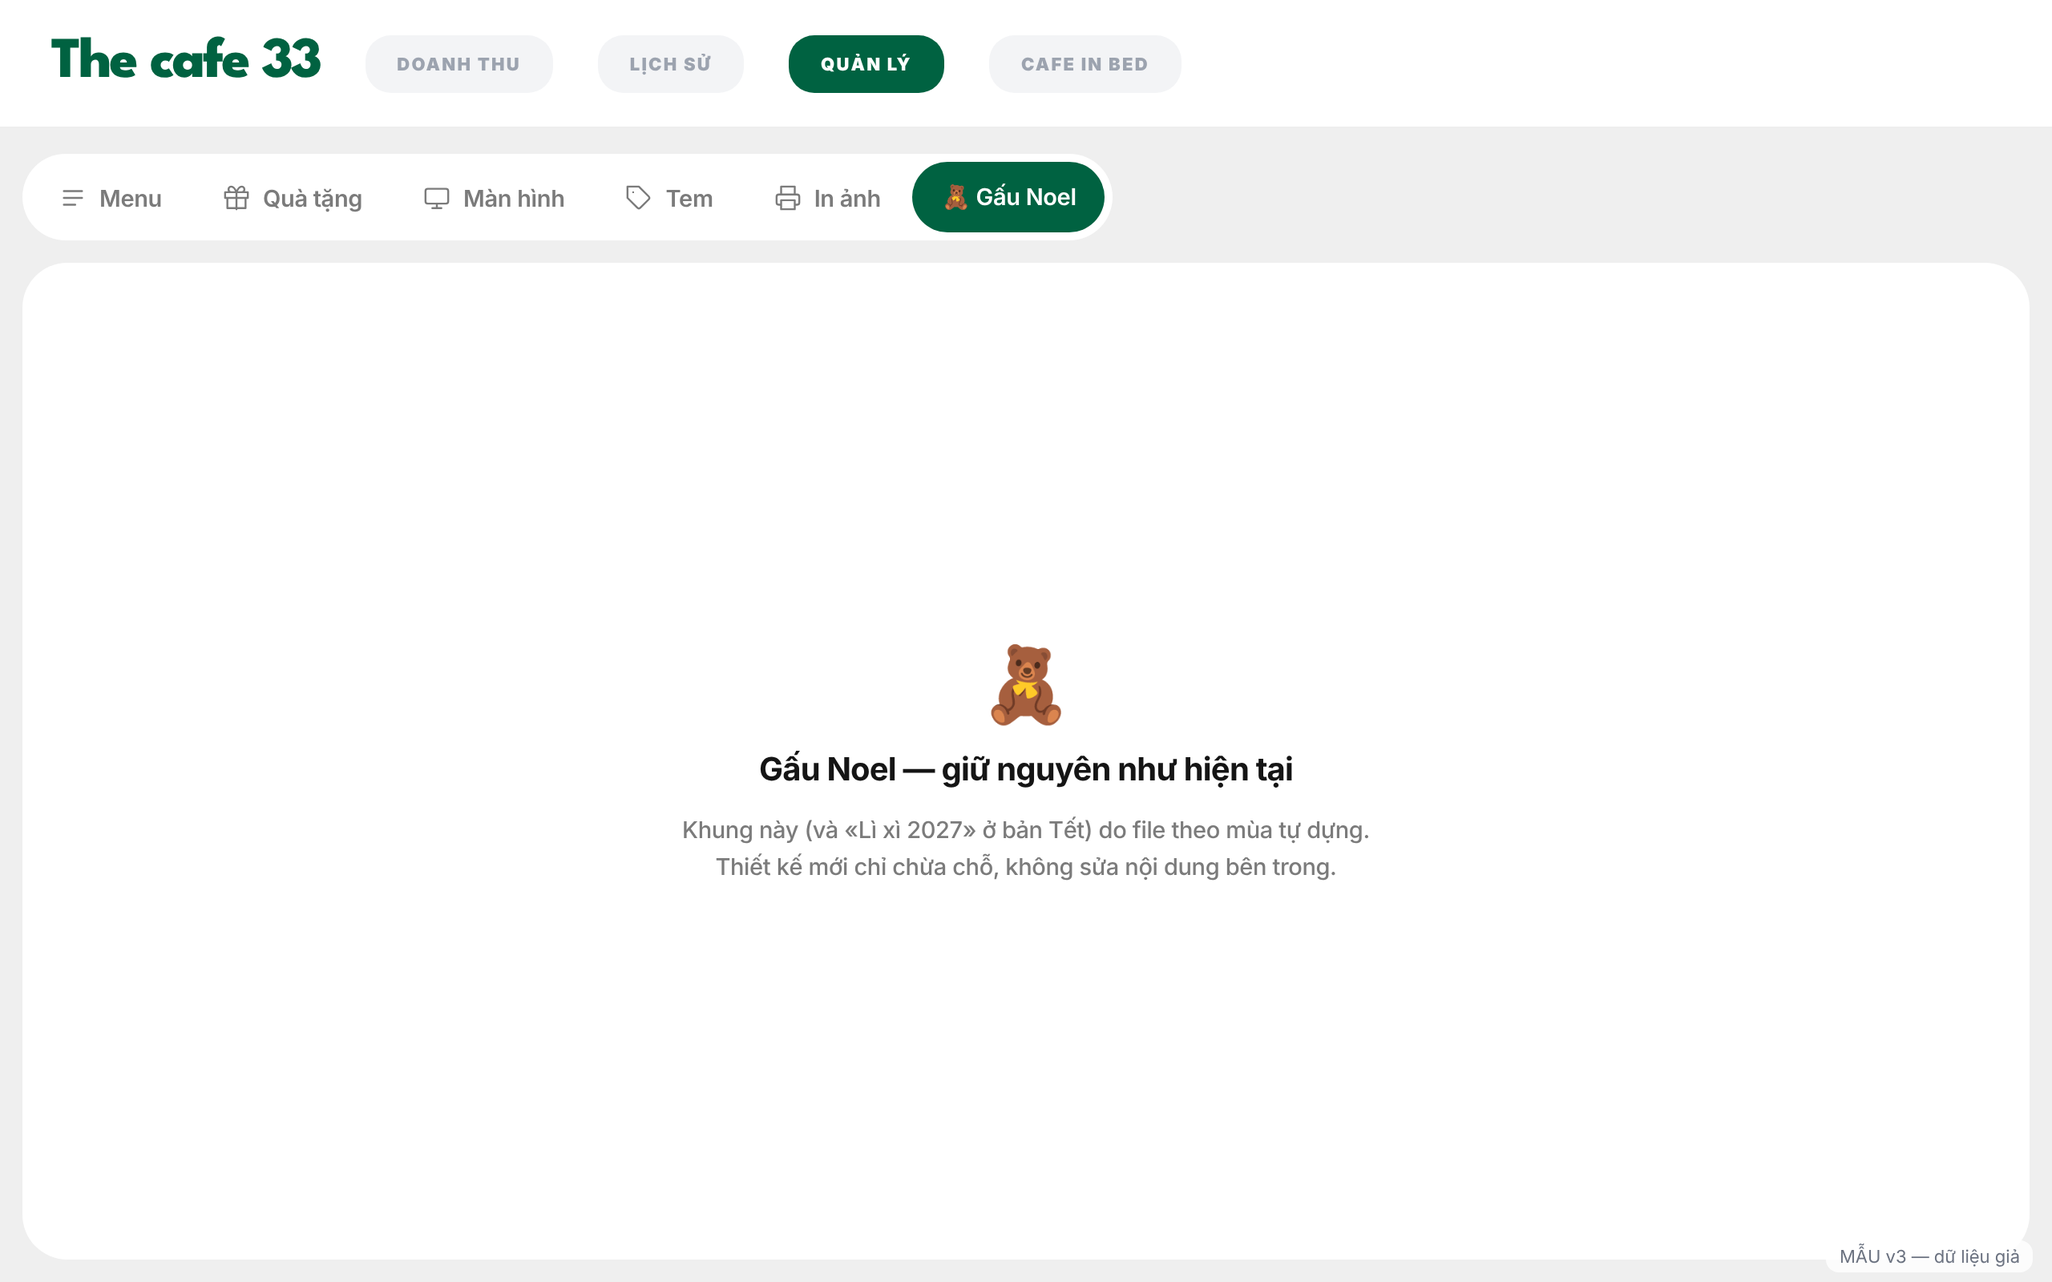
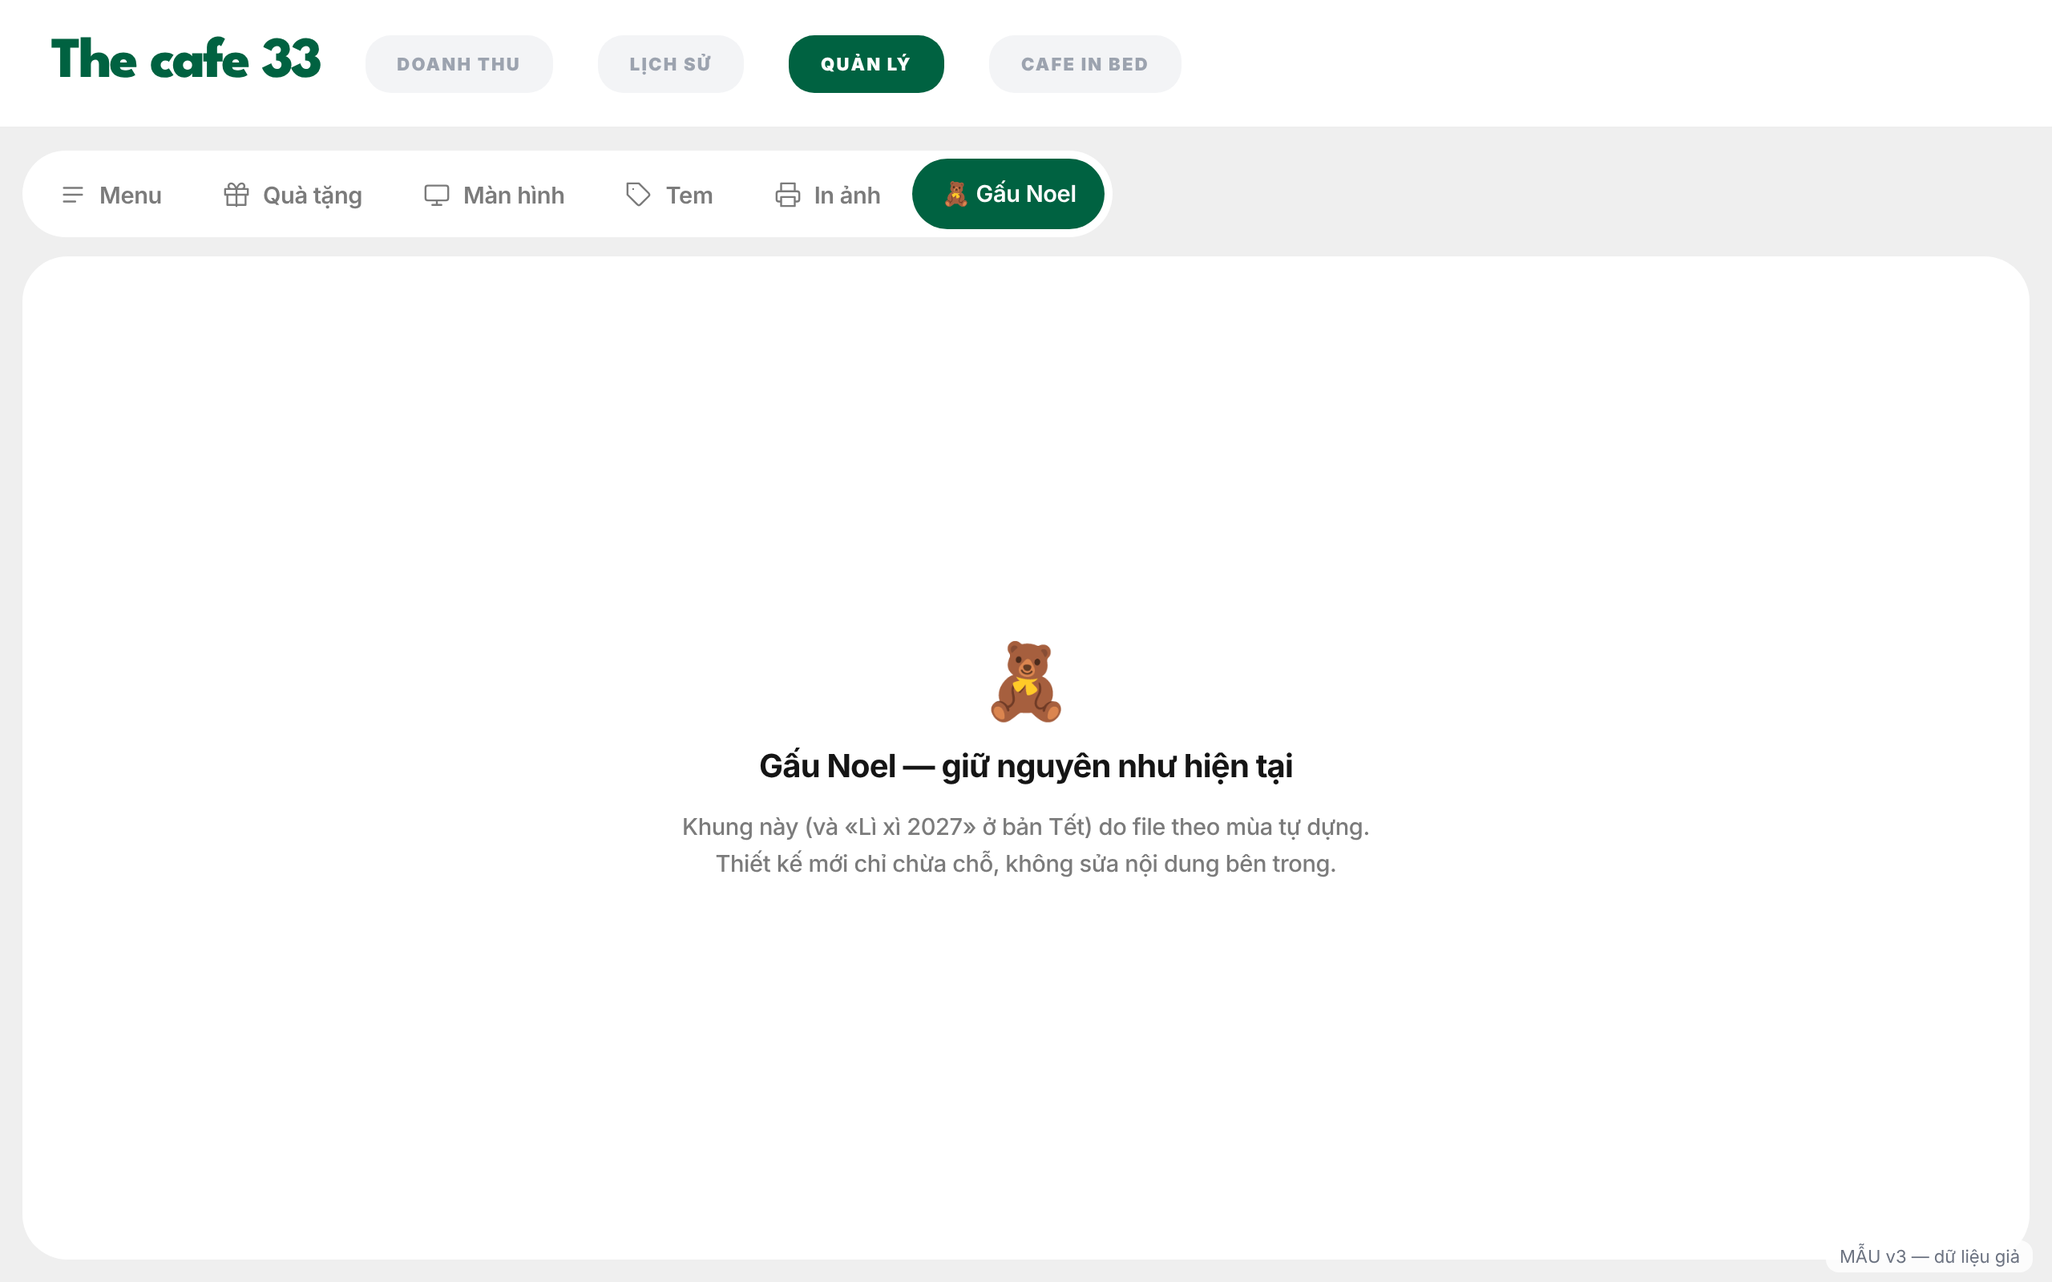
Mẫu v3: gộp thanh thao tác lên hàng thanh mục (hết khoảng trống), xếp ô Menu theo thứ tự nhập
Claude-Session: https://claude.ai/code/session_019Dii16WLktHzqfjfrbBhzh

diff --git a/docs/mau/mau_quanly_tc33_bento_v3.html b/docs/mau/mau_quanly_tc33_bento_v3.html
@@ -24,7 +24,7 @@ body{font-family:'Inter',sans-serif;background:#f3f4f6;display:flex;flex-directi
 #view-discount button:active{transform:scale(.97)}
 #view-discount :is(button,[role=button]):focus-visible{outline:2px solid var(--g);outline-offset:2px}
 
-.mgr-top{display:flex;align-items:center;gap:18px;flex-shrink:0;padding:2px 0}
+.mgr-top{display:flex;align-items:center;gap:12px;flex-shrink:0}
 .mgr-seg{display:flex;gap:2px;padding:5px;background:#fff;border-radius:999px;overflow-x:auto;scrollbar-width:none}
 .mgr-seg button{display:flex;align-items:center;gap:8px;height:44px;padding:0 18px;border:0;border-radius:999px;background:transparent;color:var(--ink2);font-size:14.5px;font-weight:600;white-space:nowrap;flex-shrink:0}
 .mgr-seg button svg{width:17px;height:17px;flex-shrink:0;stroke-width:1.7}
@@ -108,10 +108,13 @@ body{font-family:'Inter',sans-serif;background:#f3f4f6;display:flex;flex-directi
 .mgr-btn[disabled]{background:var(--field);border-color:var(--field);color:var(--ink3)}
 .mgr-tile.dark .mgr-btn.pri{background:#fff;border-color:#fff;color:#141414}
 
-.mgr-edhead{display:flex;align-items:center;gap:8px;flex-shrink:0;background:#fff;border-radius:999px;padding:10px 10px 10px 28px;min-height:68px}
-.mgr-edhead>div{flex:1;min-width:0}
-.mgr-edhead small{display:block;font-size:12px;color:var(--ink3)}
-.mgr-edhead b{display:block;font-size:18px;font-weight:700;letter-spacing:-.025em;overflow:hidden;text-overflow:ellipsis;white-space:nowrap}
+.mgr-acts{flex:1;min-width:0;display:flex;justify-content:flex-end}
+.mgr-act{display:flex;align-items:center;gap:8px;min-width:0;flex:1;justify-content:flex-end}
+.mgr-act:not(.on){display:none}
+.mgr-act>div{min-width:0;text-align:right;padding:0 8px;flex:0 1 auto}
+.mgr-act small{display:block;font-size:12px;color:var(--ink3);white-space:nowrap}
+.mgr-act b{display:block;font-size:16px;font-weight:700;letter-spacing:-.02em;overflow:hidden;text-overflow:ellipsis;white-space:nowrap}
+.mgr-act .mgr-btn{height:54px}
 
 .mgr-pick{display:flex;flex-wrap:wrap;gap:6px}
 .mgr-pick button{height:44px;padding:0 17px;border-radius:999px;border:1px solid var(--line);background:#fff;color:var(--ink);font-size:14px;font-weight:500}
@@ -129,8 +132,8 @@ body{font-family:'Inter',sans-serif;background:#f3f4f6;display:flex;flex-directi
 .mgr-tile.dark .mgr-stage{background:#1f1f1f;color:#8a8a8a}
 .mgr-drop{flex:1;min-height:84px;border:1.5px dashed #d2d2d2;border-radius:20px;display:grid;place-items:center;text-align:center;color:var(--ink2);font-size:14px}
 .mgr-log{flex:1;min-height:0;background:#1f1f1f;color:#9fdcbf;border-radius:20px;padding:16px;font:12.5px/1.8 ui-monospace,monospace;overflow-y:auto}
-.mgr-sw{display:flex;flex-wrap:wrap;gap:10px}
-.mgr-sw i{width:40px;height:40px;border-radius:50%;display:block;cursor:pointer}
+.mgr-sw{display:flex;flex-wrap:wrap;gap:12px;margin:auto 0}
+.mgr-sw i{width:52px;height:52px;border-radius:50%;display:block;cursor:pointer}
 .mgr-sw i.on{box-shadow:0 0 0 3px #fff,0 0 0 4.5px var(--ink)}
 .mgr-sw i.custom{background:#fff;border:1px dashed #bdbdbd;display:grid;place-items:center;color:var(--ink);font-style:normal;font-size:18px}
 .mgr-tagbox{display:flex;flex-wrap:wrap;gap:6px}
@@ -140,7 +143,7 @@ body{font-family:'Inter',sans-serif;background:#f3f4f6;display:flex;flex-directi
 .mgr-card{align-self:center;margin:auto;width:min(100%,220px);aspect-ratio:1.25;border-radius:24px;padding:18px;display:flex;flex-direction:column;justify-content:space-between;color:#fff}
 .mgr-card b{font-size:19px;font-weight:700;line-height:1.2;letter-spacing:-.025em}
 .mgr-card span{font-size:13.5px;opacity:.85}
-#df-img-preview{background:var(--field)!important;border-radius:50%!important}
+#df-img-preview{background:var(--field)}
 
 #mgr-c-menueditor .mgr-bento{grid-template-columns:repeat(6,minmax(0,1fr));grid-template-rows:auto auto minmax(0,1fr)}
 #mgr-c-gift .mgr-bento{grid-template-columns:minmax(0,1fr) minmax(0,1fr) minmax(0,.95fr);grid-template-rows:auto minmax(0,1fr)}
@@ -154,7 +157,6 @@ body{font-family:'Inter',sans-serif;background:#f3f4f6;display:flex;flex-directi
   .mgr-tile{padding:16px;gap:11px}
   .mgr-input,#view-discount select{height:50px}
   .mgr-input.hero,.mgr-input.num{height:56px}
-  .mgr-edhead{min-height:60px;padding:6px 6px 6px 26px}
   #mgr-c-gift .mgr-hint{display:none}
 }
 @media (max-width:768px){
@@ -162,7 +164,6 @@ body{font-family:'Inter',sans-serif;background:#f3f4f6;display:flex;flex-directi
   .mgr-workspace{display:flex;flex-direction:column}
   #mgr-col-b-wrap{max-height:320px}
   .mgr-bento{display:flex!important;flex-direction:column}
-  .mgr-edhead{position:sticky;top:0;z-index:2}
 }
 .note{position:fixed;right:12px;bottom:6px;font-size:11px;color:#6b7280;background:#ffffffd0;padding:3px 8px;border-radius:8px;pointer-events:none}
 </style>
@@ -179,6 +180,24 @@ body{font-family:'Inter',sans-serif;background:#f3f4f6;display:flex;flex-directi
       <button id="mgr-tab-sticker" role="tab" onclick="switchMgrTab('sticker')"><svg viewBox="0 0 24 24" fill="none" stroke="currentColor" stroke-width="2.2" stroke-linecap="round" stroke-linejoin="round"><path d="M20.6 13.4 13.4 20.6a2 2 0 0 1-2.8 0L2 12V2h10l8.6 8.6a2 2 0 0 1 0 2.8zM7 7h.01"/></svg>Tem</button>
       <button id="mgr-tab-label" role="tab" onclick="switchMgrTab('label')"><svg viewBox="0 0 24 24" fill="none" stroke="currentColor" stroke-width="2.2" stroke-linecap="round" stroke-linejoin="round"><path d="M6 9V2h12v7M6 18H4a2 2 0 0 1-2-2v-5a2 2 0 0 1 2-2h16a2 2 0 0 1 2 2v5a2 2 0 0 1-2 2h-2M6 14h12v8H6z"/></svg>In ảnh</button>
       <button id="mgr-tab-gaunoel" class="season" role="tab" onclick="switchMgrTab('gaunoel')">🧸 Gấu Noel</button>
+    </div>
+    <div class="mgr-acts">
+      <div class="mgr-act" id="mgr-act-menueditor"><div><small>Đang sửa món</small><b id="menu-editor-form-title">Cà phê sữa đá</b></div>
+          <button class="mgr-btn ghost" onclick="menuEditorNewItem()">＋ Món mới</button>
+          <button class="mgr-btn del" id="menu-editor-delete-btn">Xoá</button>
+          <button class="mgr-btn pri" onclick="menuEditorSave()" style="min-width:150px">Lưu món</button></div>
+      <div class="mgr-act" id="mgr-act-gift"><div><small>Đang sửa quà</small><b id="discount-form-title">Giảm 5k mì cay khô</b></div>
+          <button class="mgr-btn ghost" onclick="giftVoucherAddNewBtn()">＋ Quà mới</button>
+          <button class="mgr-btn del" id="df-delete-btn">Xoá</button>
+          <button class="mgr-btn pri" onclick="discountFormSave()" style="min-width:170px">Lưu quà tặng</button></div>
+      <div class="mgr-act" id="mgr-act-screen"><div><small>Màn hình chờ</small><b id="screen-form-title">Sửa slide 1</b></div>
+          <button class="mgr-btn ghost" id="screen-add-btn" onclick="screenAddSlide()">Cập nhật vào danh sách</button>
+          <button class="mgr-btn pri" onclick="screenSaveSlides()" style="min-width:170px">Lưu thay đổi</button></div>
+      <div class="mgr-act" id="mgr-act-sticker"><div><small>Tem dán ly</small><b>Layout tem</b></div>
+          <button class="mgr-btn ghost" onclick="stickerTestPrint()">In thử tem</button>
+          <button class="mgr-btn pri" onclick="stickerSaveConfig()" style="min-width:150px">Lưu</button></div>
+      <div class="mgr-act" id="mgr-act-label"><div><small>58mm · 35×30mm</small><b>In ảnh lên tem</b></div>
+          <button class="mgr-btn pri" id="lbl-btn-print" disabled style="min-width:170px">In tem</button></div>
     </div>
   </div>
 
@@ -233,29 +252,23 @@ body{font-family:'Inter',sans-serif;background:#f3f4f6;display:flex;flex-directi
     <div id="mgr-col-c">
       <!-- MENU -->
       <div id="mgr-c-menueditor" class="mgr-pane">
-        <div class="mgr-edhead"><div><small>Đang sửa món</small><b id="menu-editor-form-title">Cà phê sữa đá</b></div>
-          <button class="mgr-btn ghost" onclick="menuEditorNewItem()">＋ Món mới</button>
-          <button class="mgr-btn del" id="menu-editor-delete-btn">Xoá</button>
-          <button class="mgr-btn pri" onclick="menuEditorSave()" style="min-width:150px">Lưu món</button></div>
+        
         <div class="mgr-bento">
-          <div class="mgr-tile c4"><h3>Tên món</h3><input class="mgr-input hero" id="me-name" value="Cà phê sữa đá" placeholder="VD: Cà phê sữa đá"></div>
-          <div class="mgr-tile mint c2 r2"><h3>Xem trước ô menu</h3><div class="mgr-card" style="background:#006241"><b>Cà phê sữa đá</b><span>M 25k · L 30k</span></div></div>
-          <div class="mgr-tile butter c2"><h3>Giá size M</h3><div class="mgr-affix"><input class="mgr-input num" id="me-price-m" type="number" inputmode="numeric" value="25000"><span>đ</span></div></div>
-          <div class="mgr-tile peach c2"><h3>Giá size L <em>bỏ trống nếu không có</em></h3><div class="mgr-affix"><input class="mgr-input num" id="me-price-l" type="number" inputmode="numeric" value="30000"><span>đ</span></div></div>
-          <div class="mgr-tile c2"><h3>Phân loại</h3><input class="mgr-input" id="me-type" value="Cà phê" placeholder="VD: Cà phê, Trà…">
-            <div class="mgr-pick"><button aria-pressed="true">Cà phê</button><button>Trà</button><button>Ăn vặt</button></div></div>
-          <div class="mgr-tile c4"><h3>Màu ô menu</h3>
-            <div class="mgr-sw" id="me-color-swatches"><i class="on" style="background:#006241"></i><i style="background:#0e7490"></i><i style="background:#1d4ed8"></i><i style="background:#6d28d9"></i><i style="background:#be185d"></i><i style="background:#b91c1c"></i><i style="background:#d97706"></i><i style="background:#65a30d"></i><i style="background:#7c4a21"></i><i style="background:#3b2a1e"></i><i style="background:#475569"></i><i style="background:#111827"></i><i class="custom" id="me-custom-color-label">＋</i></div>
-            <p class="mgr-hint">Nút ＋ nhiều màu: chọn màu tuỳ ý ngoài bảng.</p></div>
+          <div class="mgr-tile c3"><h3>Tên món</h3><input class="mgr-input hero" id="me-name" value="Cà phê sữa đá" placeholder="VD: Cà phê sữa đá">
+            <p class="mgr-hint">Tên hiện trên ô bán hàng và trên tem.</p></div>
+          <div class="mgr-tile c3"><h3>Phân loại</h3><input class="mgr-input" id="me-type" value="Cà phê" placeholder="VD: Cà phê, Trà…">
+            <div class="mgr-pick"><button aria-pressed="true">Cà phê</button><button>Trà</button><button>Đá xay / Latte</button><button>Ăn vặt</button></div></div>
+          <div class="mgr-tile c2"><h3>Giá size M</h3><div class="mgr-affix"><input class="mgr-input num" id="me-price-m" type="number" inputmode="numeric" value="25000"><span>đ</span></div></div>
+          <div class="mgr-tile c2"><h3>Giá size L <em>bỏ trống nếu không có</em></h3><div class="mgr-affix"><input class="mgr-input num" id="me-price-l" type="number" inputmode="numeric" value="30000"><span>đ</span></div></div>
+          <div class="mgr-tile c2 r2"><h3>Xem trước ô menu</h3><div class="mgr-card" style="background:#006241"><b>Cà phê sữa đá</b><span>M 25k · L 30k</span></div></div>
+          <div class="mgr-tile c4"><h3>Màu ô menu <em>＋ = màu tuỳ ý</em></h3>
+            <div class="mgr-sw" id="me-color-swatches"><i class="on" style="background:#006241"></i><i style="background:#0e7490"></i><i style="background:#1d4ed8"></i><i style="background:#6d28d9"></i><i style="background:#be185d"></i><i style="background:#b91c1c"></i><i style="background:#d97706"></i><i style="background:#65a30d"></i><i style="background:#7c4a21"></i><i style="background:#3b2a1e"></i><i style="background:#475569"></i><i style="background:#111827"></i><i class="custom" id="me-custom-color-label">＋</i></div></div>
         </div>
       </div>
 
       <!-- QUÀ TẶNG -->
       <div id="mgr-c-gift" class="mgr-pane">
-        <div class="mgr-edhead"><div><small>Đang sửa quà</small><b id="discount-form-title">Giảm 5k mì cay khô</b></div>
-          <button class="mgr-btn ghost" onclick="giftVoucherAddNewBtn()">＋ Quà mới</button>
-          <button class="mgr-btn del" id="df-delete-btn">Xoá</button>
-          <button class="mgr-btn pri" onclick="discountFormSave()" style="min-width:170px">Lưu quà tặng</button></div>
+        
         <div class="mgr-bento">
           <div class="mgr-tile"><h3>Thông tin quà</h3>
             <div class="mgr-field"><label>Tên quà <span>(hiển thị cho khách)</span></label><input class="mgr-input" id="df-label" value="Giảm 5k mì cay khô"></div>
@@ -282,22 +295,19 @@ body{font-family:'Inter',sans-serif;background:#f3f4f6;display:flex;flex-directi
               <div class="mgr-2" style="gap:8px"><input class="mgr-input sm" id="df-cond-minprice" type="number" placeholder="Giá từ"><input class="mgr-input sm" id="df-cond-maxprice" type="number" placeholder="Giá đến"></div></div>
           </div>
           <div class="mgr-tile mint c2"><h3>Hiển thị trên app khách</h3>
-            <div style="display:grid;grid-template-columns:54px minmax(0,1.1fr) minmax(0,1.3fr) 120px;gap:12px;align-items:end">
-              <div id="df-img-preview" style="width:54px;height:54px;border-radius:18px;display:grid;place-items:center;font-size:20px">🖼</div>
-              <div class="mgr-field"><label>Link ảnh</label><input class="mgr-input" id="df-img" placeholder="https://i.ibb.co/…"></div>
+            <div style="flex:1;min-height:0;display:grid;grid-template-columns:auto minmax(0,1fr) 150px;grid-template-rows:auto auto;gap:12px 14px;align-content:center">
+              <div id="df-img-preview" style="grid-row:span 2;align-self:stretch;aspect-ratio:1;min-width:120px;border-radius:22px!important;display:grid;place-items:center;font-size:30px">🖼</div>
+              <div class="mgr-field" style="grid-column:span 2"><label>Link ảnh <span>(đồng bộ app khách)</span></label><input class="mgr-input" id="df-img" placeholder="https://i.ibb.co/…"></div>
               <div class="mgr-field"><label>Mô tả ngắn</label><input class="mgr-input" id="df-desc" value="Áp dụng 1 lần khi đến quán"></div>
-              <div class="mgr-field"><label>Giới hạn lượt</label><input class="mgr-input" id="df-limit" type="number" value="0"></div>
+              <div class="mgr-field"><label>Giới hạn lượt <span>(0 = không)</span></label><input class="mgr-input" id="df-limit" type="number" value="0"></div>
             </div>
-            <p class="mgr-hint">Giới hạn lượt = 0 là không giới hạn.</p>
           </div>
         </div>
       </div>
 
       <!-- MÀN HÌNH -->
       <div id="mgr-c-screen" class="mgr-pane">
-        <div class="mgr-edhead"><div><small>Màn hình chờ</small><b id="screen-form-title">Sửa slide 1</b></div>
-          <button class="mgr-btn ghost" id="screen-add-btn" onclick="screenAddSlide()">Cập nhật vào danh sách</button>
-          <button class="mgr-btn pri" onclick="screenSaveSlides()" style="min-width:170px">Lưu thay đổi</button></div>
+        
         <div class="mgr-bento">
           <div class="mgr-tile"><h3>URL ảnh / video</h3><textarea id="slide-new-url" rows="2" placeholder="https://…">https://i.ibb.co/abc/noel-banner.jpg</textarea></div>
           <div class="mgr-tile butter"><h3>Thời gian hiển thị</h3><div class="mgr-affix end"><input class="mgr-input num" id="slide-new-duration" type="number" value="8"><span>giây</span></div></div>
@@ -307,9 +317,7 @@ body{font-family:'Inter',sans-serif;background:#f3f4f6;display:flex;flex-directi
 
       <!-- TEM -->
       <div id="mgr-c-sticker" class="mgr-pane">
-        <div class="mgr-edhead"><div><small>Tem dán ly</small><b>Layout tem</b></div>
-          <button class="mgr-btn ghost" onclick="stickerTestPrint()">In thử tem</button>
-          <button class="mgr-btn pri" onclick="stickerSaveConfig()" style="min-width:150px">Lưu</button></div>
+        
         <div class="mgr-bento">
           <div class="mgr-tile dark r3"><h3>Xem trước tem</h3><div class="mgr-stage"><canvas id="sticker-layout-preview" width="320" height="240" style="background:#fff;border-radius:14px;max-width:88%"></canvas></div><p class="mgr-hint" style="text-align:center">Tên món · Giá · Size thay đổi theo đơn hàng</p></div>
           <div class="mgr-tile c2"><h3>Logo</h3><div class="mgr-pick"><button id="stk-logo-text-btn" aria-pressed="true">Chữ “The cafe 33”</button><button id="stk-logo-img-btn">Ảnh logo</button></div></div>
@@ -322,8 +330,7 @@ luv u</textarea></div>
 
       <!-- IN ẢNH -->
       <div id="mgr-c-label" class="mgr-pane">
-        <div class="mgr-edhead"><div><small>58mm · 35×30mm</small><b>In ảnh lên tem</b></div>
-          <button class="mgr-btn pri" id="lbl-btn-print" disabled style="min-width:170px">In tem</button></div>
+        
         <div class="mgr-bento">
           <div class="mgr-tile"><h3>Ảnh cần in</h3><div class="mgr-drop" id="lbl-upload-zone">Chọn hoặc kéo thả ảnh</div></div>
           <div class="mgr-tile mint c2"><h3>Xem trước khi in <em id="lbl-preview-info">Chọn ảnh để xem</em></h3><div class="mgr-stage"><canvas id="lbl-preview-canvas" width="0" height="0"></canvas></div></div>
@@ -346,8 +353,8 @@ luv u</textarea></div>
 <script>
 function switchMgrTab(tab){
   ['menueditor','gift','screen','sticker','label','gaunoel'].forEach(function(t){
-    var on=t===tab,b=document.getElementById('mgr-tab-'+t),l=document.getElementById('mgr-b-'+t),c=document.getElementById('mgr-c-'+t);
-    if(b)b.setAttribute('aria-selected',String(on));
+    var on=t===tab,a=document.getElementById('mgr-act-'+t),b=document.getElementById('mgr-tab-'+t),l=document.getElementById('mgr-b-'+t),c=document.getElementById('mgr-c-'+t);
+    if(b)b.setAttribute('aria-selected',String(on));if(a)a.classList.toggle('on',on);
     if(l&&t!=='sticker')l.classList.toggle('on',on);
     if(c)c.classList.toggle('on',on);
   });
